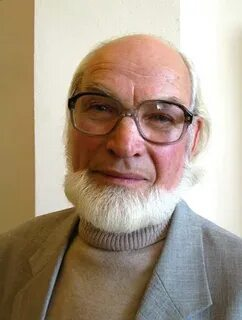
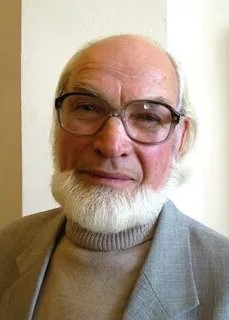
Сайт

diff --git a/Index.html b/Index.html
@@ -266,77 +266,73 @@
                             </div>                        
                         </div>
                     </div>
-                    <div class="column blue"> <!--Алатырцев-->
+                    <div class="column blue"> <!--Карачарсков-->
                         <div class="card" type="button">
                             <div class="wrapper">
                                 <div class="front">
                                     <div class="card-content">
                                         <div class="foto">
                                             <figure class="image-is-2by">
-                                                <img class="img" src="img/Alatyrcev.jpg" alt="АЛАТЫРЦЕВ ВЛАДИМИР ИВАНОВИЧ">
+                                                <img class="img" src="img/Karacharksov.jpg" alt="КАРАЧАРСКОВ НИКОЛАЙ ПРОКОФЬЕВИЧ">
                                             </figure>
                                         </div>                                        
-                                            <p class="title-name">АЛАТЫРЦЕВ ВЛАДИМИР ИВАНОВИЧ</p>
-                                            <time class="title-data" datetime="1800-2023">1908-1964</time>
+                                            <p class="title-name">КАРАЧАРСКОВ НИКОЛАЙ ПРОКОФЬЕВИЧ</p>
+                                            <time class="title-data" datetime="1800-2023">1935-2021</time>
                                         </div>
                                     </div> 
                                 <div class="back">
-                                    <p>Родился в с. Семёновское Порецкого района - поэт, журналист, 
-                                    член Союза писателей СССР. До 1958 года служил корреспондентом 
-                                    армейской газеты. После войны жил в г. Рига, возглавлял секцию 
-                                    русскоязычных писателей Союза писателей Латвии, не прерывал связи 
-                                    с Чувашией, переводил произведения чувашских писателей на русский 
-                                    язык. Автор ряда лирических сборников.</p>
+                                    <p>Родился в д. Шадриха Порецкого района - живописец, график, член Союза художников СССР. 
+                                        Благодаря ему были открыты картинная галерея в с. Порецкое и первый персональный художественный 
+                                        музей в д. Шадриха. Народный художник Чувашской АССР, заслуженный художник Чувашской АССР и РСФСР, лауреат 
+                                        Государственной премии Чувашской Республики им. К. Иванова. Имеет множество наград.</p>
                                 </div>
                             </div>                        
                         </div>
                     </div>
-                    <div class="column blue"> <!--Алатырцев-->
+                    <div class="column blue"> <!--Куторкин-->
                         <div class="card" type="button">
                             <div class="wrapper">
                                 <div class="front">
                                     <div class="card-content">
                                         <div class="foto">
                                             <figure class="image-is-2by">
-                                                <img class="img" src="img/Alatyrcev.jpg" alt="АЛАТЫРЦЕВ ВЛАДИМИР ИВАНОВИЧ">
+                                                <img class="img" src="img/Kutorkin.jpeg" alt="КУТОРКИН АНДРЕЙ ДМИТРИЕВИЧ">
                                             </figure>
                                         </div>                                        
-                                            <p class="title-name">АЛАТЫРЦЕВ ВЛАДИМИР ИВАНОВИЧ</p>
-                                            <time class="title-data" datetime="1800-2023">1908-1964</time>
+                                            <p class="title-name">КУТОРКИН АНДРЕЙ ДМИТРИЕВИЧ</p>
+                                            <time class="title-data" datetime="1800-2023">1906-1991</time>
                                         </div>
                                     </div> 
                                 <div class="back">
-                                    <p>Родился в с. Семёновское Порецкого района - поэт, журналист, 
-                                    член Союза писателей СССР. До 1958 года служил корреспондентом 
-                                    армейской газеты. После войны жил в г. Рига, возглавлял секцию 
-                                    русскоязычных писателей Союза писателей Латвии, не прерывал связи 
-                                    с Чувашией, переводил произведения чувашских писателей на русский 
-                                    язык. Автор ряда лирических сборников.</p>
+                                    <p>Родился в с. Напольное Порецкого района - писатель, член Союза писателей СССР. 
+                                        Работал в средствах массовой информации Мордовии. Был главным редактором Мордовского 
+                                        книжного издательства. Автор множества романов. Заслуженный писатель Мордовской АССР, 
+                                        народный писатель Мордовской АССР, лауреат Государственной премии Мордовской АССР. 
+                                        Имеет множество наград.</p>
                                 </div>
                             </div>                        
                         </div>
                     </div>
-                    <div class="column blue"> <!--Алатырцев-->
+                    <div class="column blue"> <!--Лесин-->
                         <div class="card" type="button">
                             <div class="wrapper">
                                 <div class="front">
                                     <div class="card-content">
                                         <div class="foto">
                                             <figure class="image-is-2by">
-                                                <img class="img" src="img/Alatyrcev.jpg" alt="АЛАТЫРЦЕВ ВЛАДИМИР ИВАНОВИЧ">
+                                                <img class="img" src="img/Lesin.jpg" alt="ЛЕСИН АЛЕКСАНДР АНДРЕЕВИЧ">
                                             </figure>
                                         </div>                                        
-                                            <p class="title-name">АЛАТЫРЦЕВ ВЛАДИМИР ИВАНОВИЧ</p>
-                                            <time class="title-data" datetime="1800-2023">1908-1964</time>
+                                            <p class="title-name">ЛЕСИН АЛЕКСАНДР АНДРЕЕВИЧ</p>
+                                            <time class="title-data" datetime="1800-2023">1921-2002</time>
                                         </div>
                                     </div> 
                                 <div class="back">
-                                    <p>Родился в с. Семёновское Порецкого района - поэт, журналист, 
-                                    член Союза писателей СССР. До 1958 года служил корреспондентом 
-                                    армейской газеты. После войны жил в г. Рига, возглавлял секцию 
-                                    русскоязычных писателей Союза писателей Латвии, не прерывал связи 
-                                    с Чувашией, переводил произведения чувашских писателей на русский 
-                                    язык. Автор ряда лирических сборников.</p>
+                                    <p>Родился в с. Кудеиха Порецкого района - поэт, член Союза писателей СССР. 
+                                        Печататься начал во фронтовых газетах. Стихи публиковались в журналах «Октябрь», 
+                                        «Красноармеец», «Юность», «Смена», «Наш современник». Работал редактором художественной 
+                                        литературы Крымиздата, ответственным секретарем, позже редактором альманаха «Крым». 
+                                        Автор более 10 сборников стихов.</p>
                                 </div>
                             </div>                        
                         </div>

diff --git a/css/main.css b/css/main.css
@@ -139,6 +139,7 @@ header a {
 
 .img {
     max-width: 200px;
+    min-width: 200px;
     justify-self: center;
     margin-left: -2.2rem;
     margin-right: -2.2rem;
